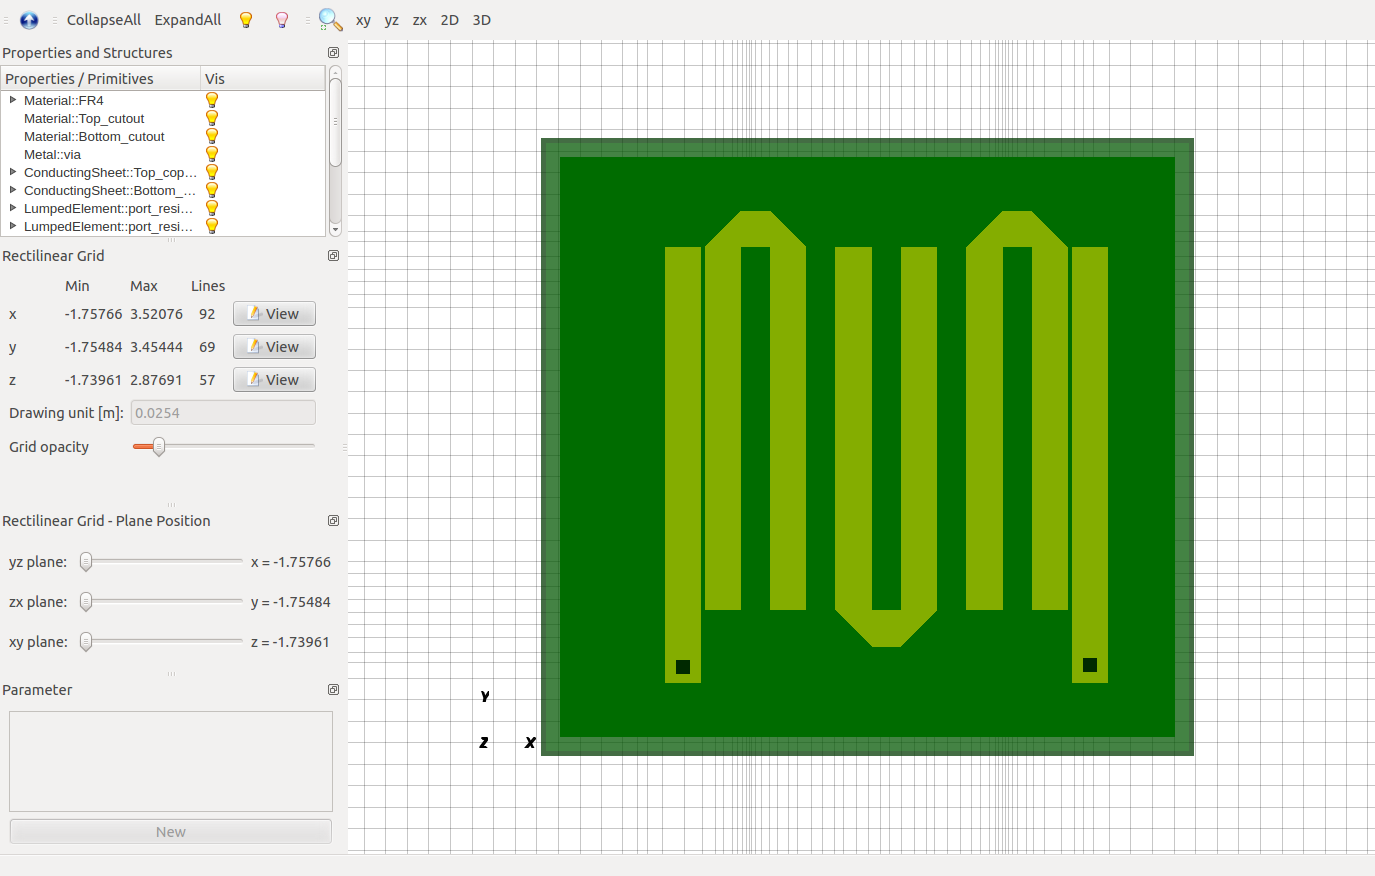
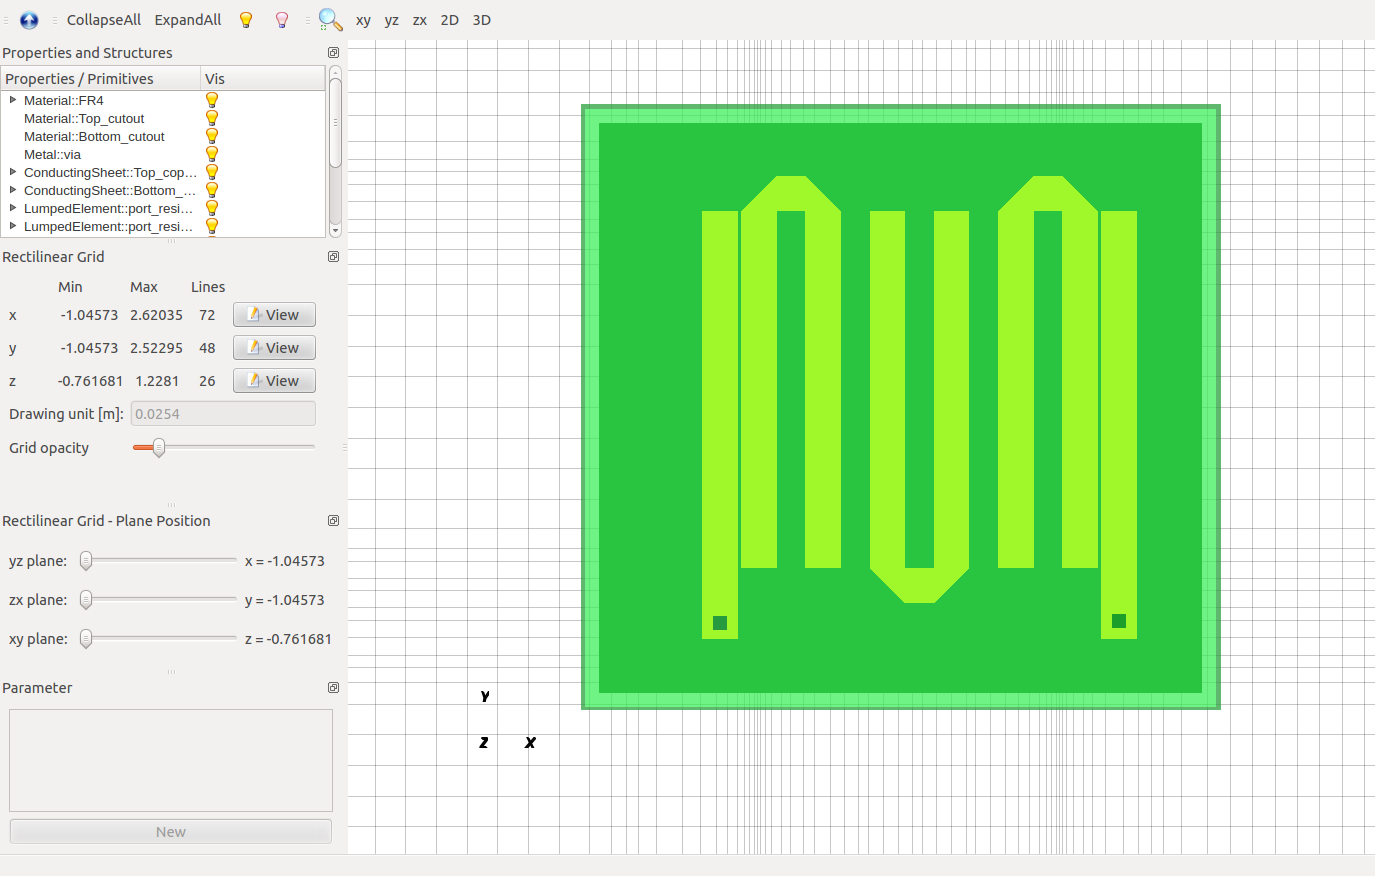
demo epsilonr fix; speedup

diff --git a/matlab/hyp_draw_board.m b/matlab/hyp_draw_board.m
@@ -127,9 +127,11 @@ function CSX = hyp_draw_board(CSX, s)
   % XXX if board is not rectangular
   % CSX = AddLinPoly(CSX, 'FR4', CSX.prio_dielectric, 2, zmin, CSX.board_outline, zmax - zmin);
 
-  disp(['board: x = ', num2str(xmin), ' : ', num2str(xmax)]);
-  disp(['       y = ', num2str(ymin), ' : ', num2str(ymax)]);
-  disp(['       z = ', num2str(zmin), ' : ', num2str(zmax)]);
+  units_mm = CSX.units * 1000;
+  disp(['board: x = ', num2str(xmin*units_mm), ' : ', num2str(xmax*units_mm), ' mm']);
+  disp(['       y = ', num2str(ymin*units_mm), ' : ', num2str(ymax*units_mm), ' mm']);
+  disp(['       z = ', num2str(zmin*units_mm), ' : ', num2str(zmax*units_mm), ' mm']);
+  disp(['epsilonr = ', num2str(substrate_epr)]);
 
   % create power and ground planes
   for i = 1:length(CSX.stackup)

diff --git a/eagle/hairpinfilter/demo_hairpin.m b/eagle/hairpinfilter/demo_hairpin.m
@@ -30,11 +30,11 @@ physical_constants;
 unit = 0.0254; % this pcb has units in inches 
 fc= 1.1e9;   % center frequency
 f0= 1.0e9;   % estimated 20db frequency
-substrate_epr = 4.1; 
+substrate_epr = 4.8; 
 resolution = c0 / (f0+fc) / sqrt(substrate_epr) / unit / 25;
 hypfilename = 'hairpinfilter.HYP';
 
-AirBox = c0/(f0+fc)/unit/4;
+AirBox = c0/(f0+fc)/unit/25;
 
 % set up FTDT
 FDTD  = InitFDTD();

diff --git a/eagle/notchfilter/demo_notch.m b/eagle/notchfilter/demo_notch.m
@@ -29,7 +29,7 @@ clc
 physical_constants;
 unit = 0.0254; % this pcb has units in inches 
 f_max = 7e9;
-substrate_epr = 4.3;
+substrate_epr = 4.8;
 resolution = c0 / f_max / sqrt(substrate_epr) / unit / 25;
 hypfilename = 'notchfilter.HYP';
 
